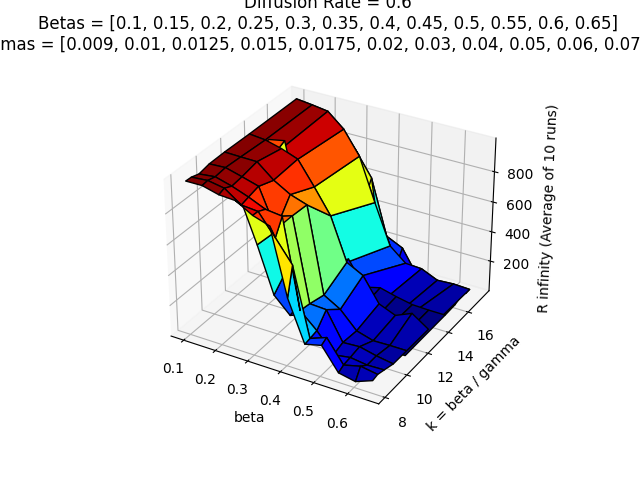
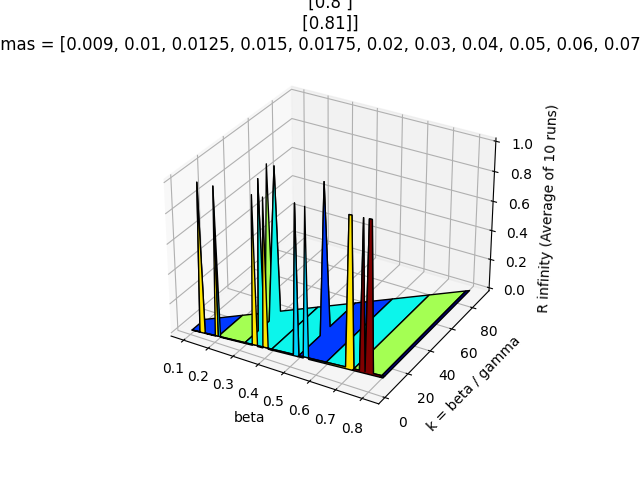
Done

diff --git a/HW1/HW1.py b/HW1/HW1.py
@@ -23,7 +23,10 @@ class DiseaseSpreading:
         self.recovered = 0
 
         # For task 4
-        self.betas = [0.1, 0.15, 0.2, 0.25, 0.3, 0.35, 0.4, 0.45, 0.5, 0.55, 0.6, 0.65]
+        self.betas = np.zeros((72, 1))
+        for i in range(72):
+            self.betas[i] = 0.1 + i * 0.01
+        print(self.betas)
         self.gammas = [0.009, 0.01, 0.0125, 0.015, 0.0175, 0.02, 0.03, 0.04, 0.05, 0.06, 0.07, 0.08]
         self.R_infinity = np.zeros((len(self.betas), len(self.gammas)))
 
@@ -373,78 +376,21 @@ def task4():
     k_values = np.zeros((len(SIR.betas), len(SIR.gammas)))
     for i in range(len(SIR.betas)):
         for j in range(len(SIR.gammas)):
-            k_values[i, j] = SIR.betas[i] / SIR.gammas[i]
-    q0 = Queue()
-    q1 = Queue()
-    q2 = Queue()
-    q3 = Queue()
-    q4 = Queue()
-    q5 = Queue()
-    q6 = Queue()
-    q7 = Queue()
+            k_values[i, j] = SIR.betas[i] / SIR.gammas[j]
 
-    thread0 = Process(target=SIR.generate_Rinf_for_gamma, args=(q0, 10, 0))
-    thread1 = Process(target=SIR.generate_Rinf_for_gamma, args=(q1, 10, 1))
-    thread2 = Process(target=SIR.generate_Rinf_for_gamma, args=(q2, 10, 2))
-    thread3 = Process(target=SIR.generate_Rinf_for_gamma, args=(q3, 10, 3))
-    thread4 = Process(target=SIR.generate_Rinf_for_gamma, args=(q4, 10, 4))
-    thread5 = Process(target=SIR.generate_Rinf_for_gamma, args=(q5, 10, 5))
-    thread6 = Process(target=SIR.generate_Rinf_for_gamma, args=(q6, 10, 6))
-    thread7 = Process(target=SIR.generate_Rinf_for_gamma, args=(q7, 10, 7))
+    queues = list()
+    threads = list()
 
-    thread0.start()
-    thread1.start()
-    thread2.start()
-    thread3.start()
-    thread4.start()
-    thread5.start()
-    thread6.start()
-    thread7.start()
+    for i in range(72):
+        queues.append(Queue())
+        threads.append(Process(target=SIR.generate_Rinf_for_gamma, args=(queues[i], 10, i)))
+        threads[i].start()
     
+    for i in range(72):
+        threads[i].join()
     
-    thread0.join()
-    thread1.join()
-    thread2.join()
-    thread3.join()
-    thread4.join()
-    thread5.join()
-    thread6.join()
-    thread7.join()
-    
-    SIR.R_infinity[0] = q0.get()
-    SIR.R_infinity[1] = q1.get()
-    SIR.R_infinity[2] = q2.get()
-    SIR.R_infinity[3] = q3.get()
-    SIR.R_infinity[4] = q4.get()
-    SIR.R_infinity[5] = q5.get()
-    SIR.R_infinity[6] = q6.get()
-    SIR.R_infinity[7] = q7.get()
-
-    q8 = Queue()
-    q9 = Queue()
-    q10 = Queue()
-    q11 = Queue()
-
-    thread8 = Process(target=SIR.generate_Rinf_for_gamma, args=(q8, 10, 8))
-    thread9 = Process(target=SIR.generate_Rinf_for_gamma, args=(q9, 10, 9))
-    thread10 = Process(target=SIR.generate_Rinf_for_gamma, args=(q10, 10, 10))
-    thread11 = Process(target=SIR.generate_Rinf_for_gamma, args=(q11, 10, 11))
-
-    thread8.start()
-    thread9.start()
-    thread10.start()
-    thread11.start()
-
-    thread8.join()
-    thread9.join()
-    thread10.join()
-    thread11.join()
-    
-    
-    SIR.R_infinity[8] = q8.get()
-    SIR.R_infinity[9] = q9.get()
-    SIR.R_infinity[10] = q10.get()
-    SIR.R_infinity[11] = q11.get()
+    for i in range(72):
+        SIR.R_infinity[i] = queues[i].get()
 
     fig = plt.figure()
     ax = plt.axes(projection="3d")
